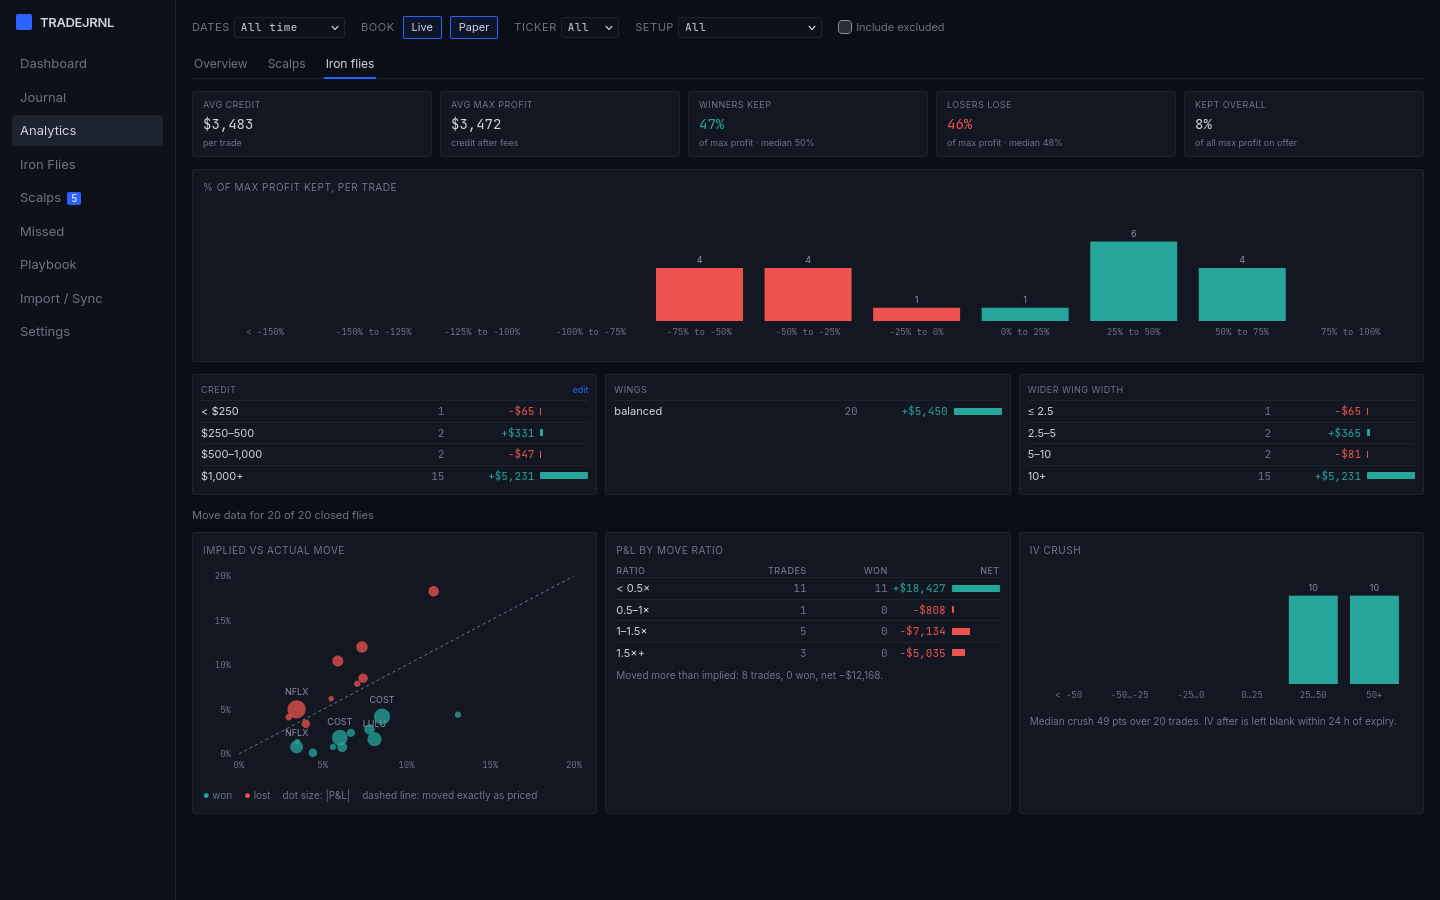
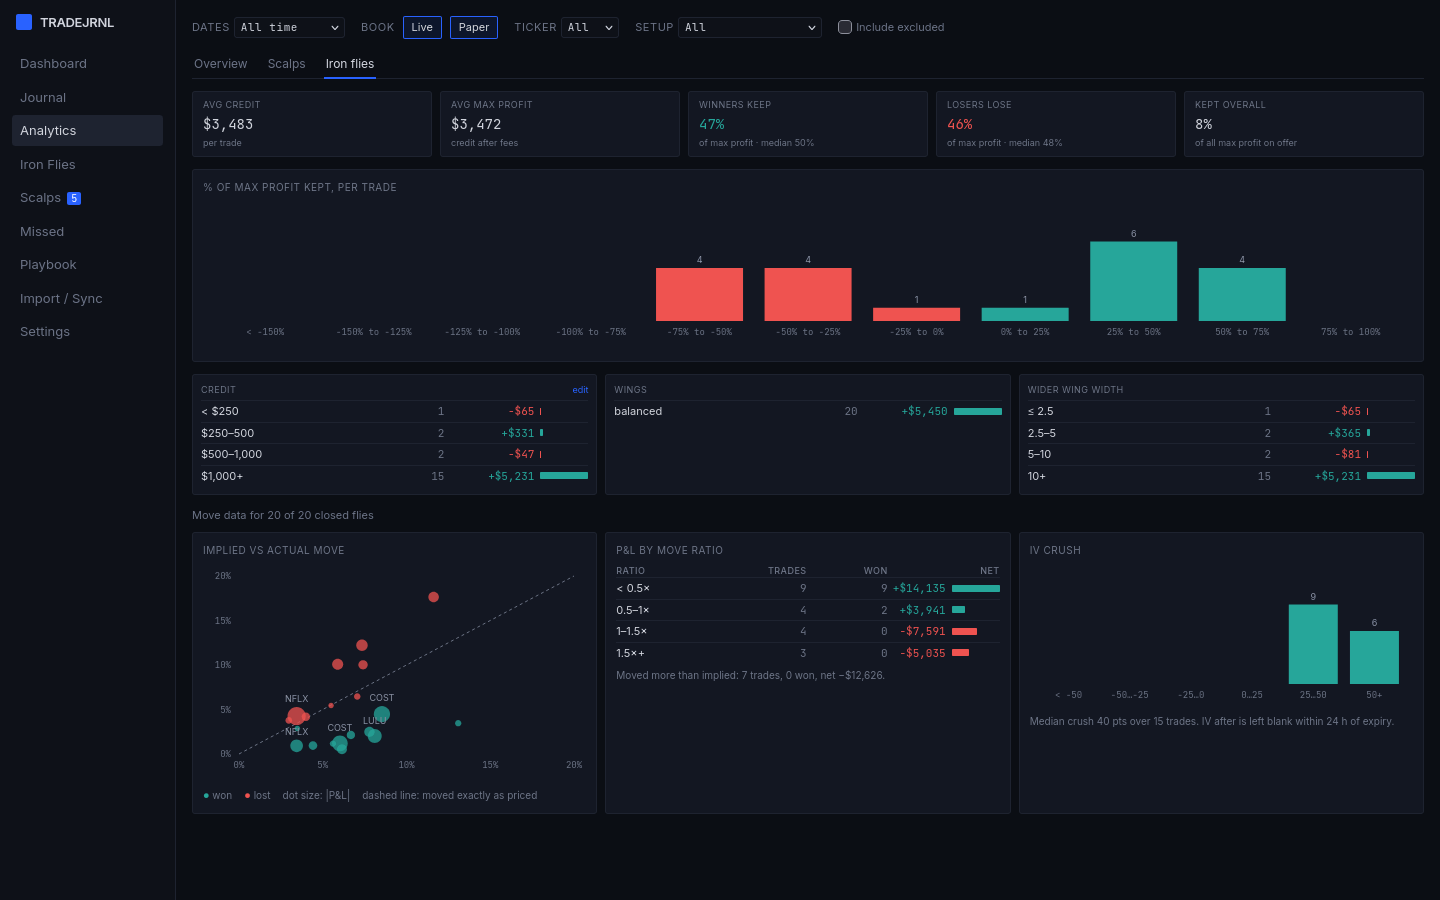
docs: the demo's final review, retaken screenshots, and figures that match them

diff --git a/docs/superpowers/specs/2026-10-08-demo-data-design.md b/docs/superpowers/specs/2026-10-08-demo-data-design.md
@@ -161,6 +161,24 @@ Anyone looking at the project, a recruiter or the user showing it, should see th
 - **Headless Firefox at 1440×900:** the Dashboard, Journal, a scalp, a fly, Analytics (Scalps and Iron flies tabs) and the Playbook. No console errors on any page, and no "add an Alpaca key" message. The stock, daily and option-premium charts all drew from the synthetic bars. These are the README's images.
 - **Tuning found by looking:**
   - The first run's scalps won 36% (NVDA 10%). A fixed $2.50 strike step put a $60 stock's first out-of-the-money strike 4% away, and fixed percentage levels were wide for SPY and tight for TSLA. Strikes now space by price, and levels by each symbol's volatility.
-  - The second run's Avg R came out negative on a profitable book, because the targets sat nearer than the stops. The final figures (§2) give 51% wins, Avg R +0.13, a profit factor of 1.96 and +$2.9K on the scalps, and +$5.8K on the flies.
+  - The second run's Avg R came out negative on a profitable book, because the targets sat nearer than the stops. The final figures (§2) give 51% wins, Avg R +0.13, a profit factor of 1.96 and +$2.9K on the scalps, and +$5.5K on the flies (11 of 20 winners).
 - **Speed:** `bars.store` built Drizzle SQL for every insert, and a month's generation took 2.6 s. It now runs one prepared statement a row: a month in 0.5 s, six months in 2 s. This speeds the real app's Alpaca fills too.
 - **Dashboard:** it opens on the current month, which lies after a fixed `--end`. The README's image uses `/?period=month&at=2026-08-14`; run without `--end`, the demo ends yesterday, so the current month has trades.
+
+---
+
+## 9. Final review (2026-10-08)
+
+A fresh Opus review of f9b8287..4164230 found one Critical issue and two Important ones; one Minor was graded up by its effect. All are fixed test-first:
+- **A fly entering on a half day crashed `pnpm demo`** (Critical). Its entry was stamped 15:40–15:54 whatever the close, so on Nov 27 or Dec 24 no bar existed and generation failed, on about one end date in eight from December 2026. Fly entries now sit in the last 20 minutes before that day's own close, and a test checks every trade's open and close against its session.
+- **Notes contradicted outcomes** ("out at the stop" on a winner, in `journal.png`). Notes are now picked by setup and by how the trade went.
+- **Fly moves were written as typed overrides,** so every fly page read "typed (computed …)". The demo now leaves the moves and IVs to the app, which works them out from the legs and the stock prices, as for a synced fly. This replaces §2's "filled in".
+- **A wipe that failed partway removed the marker first** (graded up from Minor). On Windows, a still-running demo holds `journal.db`, so the wipe fails, and every later `pnpm demo` refused the folder. The marker now goes last, and the message says to stop the running demo.
+- The README and §8 figures now match the screenshots, which were retaken after the fixes.
+
+**Deferred minors:**
+- **Penny contracts:** the price-based step gives SPY $2.50 strikes (it lists $1), so about one scalp in seven opens at $0.05 or less. One premium-basis plan has its stop equal to its entry, and its R can't be priced.
+- **The guard checks equality only:** a real data directory nested inside a marked demo directory would be wiped. This is contrived; refusing when `relative(dir, real)` doesn't start with `..` would close it.
+- **An empty `TJ_DEMO_DIR`** fails with "ENOENT mkdir ''" (it should fall back like `resolveDataDir`), and a relative one resolves against `apps/server`.
+- **An `--end` before mid-2024** gives option charts that read "too old" (Alpaca's option bars start in 2024).
+- **Option bars:** each bar's open isn't the previous bar's close (each minute is priced on its own), which is cosmetic.

diff --git a/README.md b/README.md
@@ -19,8 +19,10 @@ pnpm demo           # http://127.0.0.1:4179
 earnings iron flies, with synthetic prices so every chart draws without an API key, and
 opens it on its own port. It lives in your system's temp directory (or `TJ_DEMO_DIR`),
 is replaced on the next run, and never touches your own journal. `--end YYYY-MM-DD` and
-`--seed N` pick the period and the data: `pnpm demo --end 2026-09-30` gives the
-screenshots below. Nothing in the demo comes from a real account or real market data.
+`--seed N` pick the period and the data. The screenshots here are of
+`pnpm demo --end 2026-09-30`, with the Dashboard stepped back to August. By default the
+demo ends with yesterday's session. Nothing in it comes from a real account or real
+market data.
 
 ## Your data stays yours
 
